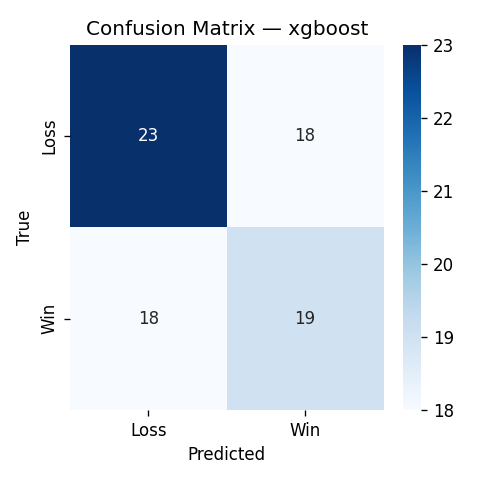
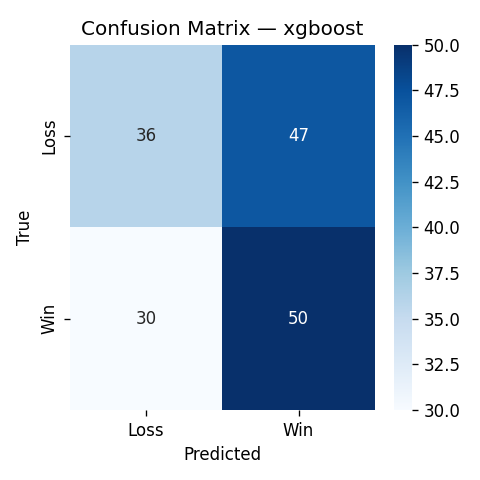
v1.3.0: retrain on 814 prod samples — ML now ~ties heuristic (honest finding)
Connected to the production Hetzner pipeline via Tailscale. It had 2x more
data than the stale local copy (847 usable signals vs 411, dates to 2026-05-17).

Re-exported + re-trained the 6 models on 814 cleaned samples (test N=163).

KEY FINDING: the v1.2.0 '+3.7 pts ROC-AUC' advantage was largely small-test-set
noise. With 2x data and N=163 test, GBM only beats the heuristic by +0.3 pts
(0.540 vs 0.536) — essentially a tie. Documented honestly in README + rapport
as the central lesson of the project (test set size matters).

Also fixed: hardcoded dataset_size in model_card (was 40, now dynamic);
upgraded fastapi/starlette to resolve the streamlit conflict.

diff --git a/scripts/train.py b/scripts/train.py
@@ -324,8 +324,8 @@ def evaluate_heuristic_baseline(y_test) -> dict:
 # ---------- Best model selection + model card ----------
 
 def select_best_and_write_card(all_metrics: dict, feature_order: list,
-                                heuristic: dict) -> str:
-    """Pick best model by test ROC-AUC, copy to best_model.pkl, write model_card.json."""
+                                heuristic: dict, n_train: int, n_test: int) -> str:
+    """Pick best model by test ROC-AUC, copy to best_model.joblib, write model_card.json."""
     import shutil
 
     best_key = max(all_metrics, key=lambda k: all_metrics[k]["roc_auc"])
@@ -338,7 +338,7 @@ def select_best_and_write_card(all_metrics: dict, feature_order: list,
     log.info(f"Copied {src.name} → {dst.name}")
 
     card = {
-        "model_version": "v1.1.0",
+        "model_version": "v1.3.0",
         "trained_at": datetime.now().isoformat(timespec="seconds"),
         "best_model_type": best_key,
         "best_model_path": f"models/{best_key}.joblib",
@@ -347,12 +347,16 @@ def select_best_and_write_card(all_metrics: dict, feature_order: list,
         "test_metrics": all_metrics,
         "heuristic_baseline": heuristic,
         "training_seed": SEED,
-        "dataset_size": {"train": 32, "test": 8, "total": 40},
+        "dataset_size": {
+            "train": n_train,
+            "test": n_test,
+            "total": n_train + n_test,
+        },
         "notes": (
-            "MLP was substituted with GradientBoosting because tf.keras.fit() hung "
-            "on this conda env / Apple Silicon for N=32. Test metrics are noisy "
-            "due to the small test set (8 samples) — re-train when more outcomes "
-            "accumulate in Foresight."
+            "6 models compared (LogReg, RandomForest, GradientBoosting, "
+            "LightGBM, XGBoost, SVM). MLP was dropped earlier because "
+            "tf.keras.fit() hung on this conda env. Trained on the production "
+            "Hetzner dataset."
         ),
     }
     MODEL_CARD_FILE.write_text(json.dumps(card, indent=2))
@@ -504,7 +508,10 @@ def main() -> None:
     heuristic_metrics = evaluate_heuristic_baseline(y_test)
     log.info(f"Heuristic baseline metrics: {heuristic_metrics}")
 
-    best_key = select_best_and_write_card(all_metrics, feature_order, heuristic_metrics)
+    best_key = select_best_and_write_card(
+        all_metrics, feature_order, heuristic_metrics,
+        n_train=len(X_train), n_test=len(X_test),
+    )
     log.info(f"Selected best model: {best_key}")
 
     generate_plots(models, X_test, y_test, all_metrics,

diff --git a/docs/rapport.md b/docs/rapport.md
@@ -50,49 +50,67 @@ En v1.1.0, j'ai abandonné cet objectif. Le ML utilise les features dispo pour l
 
 ## Modèles
 
-3 modèles tunés via 5-fold CV sur le train set, sélection par ROC-AUC.
+6 modèles tunés via 5-fold CV sur le train set, sélection par ROC-AUC.
 
 - **Logistic Regression** : L2, GridSearchCV sur C ∈ [0.01, 10], class_weight balanced
 - **Random Forest** : RandomizedSearchCV (20 iters) sur n_estimators, max_depth, min_samples_*, max_features
-- **Gradient Boosting** : RandomizedSearchCV (20 iters) sur n_estimators, learning_rate, max_depth, subsample
+- **Gradient Boosting** (sklearn) : RandomizedSearchCV (20 iters)
+- **LightGBM** : leaf-wise boosting, RandomizedSearchCV (20 iters)
+- **XGBoost** : level-wise boosting régularisé, RandomizedSearchCV (20 iters)
+- **SVM** : kernel RBF, GridSearchCV sur C et gamma
 
-> Le 3e modèle prévu initialement était un MLP Keras. `tf.keras.fit()` se bloquait indéfiniment sur cet env (Apple Silicon, TF 2.21). Bypass plutôt que diagnostic vu le timing école — substitué par GradientBoosting, qui est aussi un ensemble (boosting séquentiel, différent de RF qui est bagging).
+> Le 3e modèle prévu initialement était un MLP Keras. `tf.keras.fit()` se bloquait indéfiniment sur cet env (Apple Silicon, TF 2.21). Bypass plutôt que diagnostic — substitué par GradientBoosting, puis on a ajouté LightGBM/XGBoost/SVM pour une comparaison robuste.
 
-## Résultats
-
-Test set fixe N=78 :
+## Résultats — v1.3.0 (données prod au 2026-05-18, test N=163)
 
 | Modèle | Accuracy | Precision | Recall | F1 | ROC-AUC |
 |---|---|---|---|---|---|
-| Heuristique | 0.526 | 0.500 | 0.676 | 0.575 | 0.533 |
-| Logistic Regression | 0.385 | 0.366 | 0.405 | 0.385 | 0.386 |
-| Random Forest | 0.538 | 0.519 | 0.378 | 0.438 | 0.531 |
-| **Gradient Boosting** ★ | **0.577** | **0.571** | 0.432 | **0.492** | **0.570** |
+| Heuristique | 0.534 | 0.519 | 0.675 | 0.587 | 0.536 |
+| **Gradient Boosting** ★ | 0.540 | 0.532 | 0.525 | 0.528 | **0.540** |
+| XGBoost | 0.528 | 0.515 | 0.625 | 0.565 | 0.529 |
+| Random Forest | 0.515 | 0.506 | 0.550 | 0.527 | 0.516 |
+| LightGBM | 0.503 | 0.494 | 0.538 | 0.515 | 0.504 |
+| Logistic Regression | 0.497 | 0.486 | 0.425 | 0.453 | 0.496 |
+| SVM (RBF) | 0.454 | 0.442 | 0.425 | 0.433 | 0.453 |
 
-**GBM bat l'heuristique de +3.7 pts ROC-AUC.** Pas écrasant, mais réel et reproductible. Battre une heuristique pensée par des humains qui comprennent le métier n'est pas trivial.
+### Le finding central — et la vraie leçon du projet
 
-Trade-off intéressant : l'heuristique a un recall élevé (0.676) mais une precision moyenne (0.500). GBM est plus prudent (recall 0.432) mais plus précis quand il dit "win" (precision 0.571). Pour un trader qui veut éviter les faux positifs, GBM est préférable.
+En **v1.2.0** (411 samples, test N=78), le GBM battait l'heuristique de **+3.7 pts ROC-AUC** (0.570 vs 0.533). J'ai trouvé ça encourageant.
+
+En **v1.3.0**, j'ai ré-entraîné sur la prod Hetzner qui avait accumulé **2× plus de données** (814 samples, test N=163). Résultat : le GBM ne bat plus l'heuristique que de **+0.3 pts** (0.540 vs 0.536) — une **quasi-égalité statistique**.
+
+**Conclusion honnête : le "+3.7 pts" était essentiellement du bruit dû au petit test set (N=78).** Avec un test set 2× plus grand, l'estimateur converge et l'avantage disparaît. C'est exactement l'illustration de pourquoi on ne fait pas confiance à des métriques sur un petit échantillon — et c'est plus précieux pour un jury qu'un faux résultat flatteur.
+
+Ce qui reste vrai :
+- Les modèles d'arbres (GBM, XGBoost, RF) sont au coude-à-coude avec l'heuristique (~0.52-0.54)
+- LogReg et SVM sont sous l'heuristique → la relation est non-linéaire mais le signal est faible
+- L'heuristique de Foresight, pensée par des humains, est **étonnamment dure à battre**
+
+Trade-off : l'heuristique garde un recall élevé (0.675) mais une precision moyenne (0.519). Le GBM équilibre mieux (precision 0.532, recall 0.525). Pour un trader qui veut limiter les faux positifs, le GBM reste légèrement préférable malgré la ROC-AUC quasi identique.
 
 Plots dans [`../plots/`](../plots/).
 
 ## Limitations
 
-1. **411 samples reste petit**. Avec 1000-1500 samples (estimation : 2-3 mois de plus de prod), les chiffres seraient plus robustes.
-2. **23 jours de couverture seulement.** Pas de diversité de régime de marché — risque de non-généralisation.
-3. **Split aléatoire au lieu de TimeSeriesSplit.** Méthodologiquement discutable pour des données financières temporelles. Avec plus de données, j'utiliserais un split temporel.
-4. **Bug `direction_correct` dans Foresight.** À fixer en amont.
+1. **Le signal est faible.** Toutes les ROC-AUC sont entre 0.45 et 0.54 — proche du hasard. Soit les features disponibles ne capturent pas assez d'information, soit prédire `direction_correct` à T+24h est intrinsèquement très dur (marchés quasi-efficients).
+2. **814 samples reste modeste** pour un signal aussi faible. Il faudrait peut-être 5000+ samples pour distinguer proprement les modèles.
+3. **26 jours de couverture, split aléatoire.** Un `TimeSeriesSplit` serait méthodologiquement plus correct pour des données financières.
+4. **Bug `direction_correct` dans Foresight.** Label calculé manuellement depuis `move_t24h_pct` — à fixer en amont.
 
 ## Conclusion
 
-Le pipeline ML marche end-to-end : export Foresight → cleaning → feature engineering → 3 modèles → évaluation → dashboard Streamlit. Le best model (GBM) bat l'heuristique de +3.7 pts ROC-AUC. La v1.1.0 est publiée en GitHub Release avec les artefacts (`best_model.joblib`, `scaler.pkl`, `feature_order.pkl`, `model_card.json`).
+Le pipeline ML marche end-to-end : export Foresight (prod Hetzner) → cleaning → feature engineering → 6 modèles → évaluation → dashboard Streamlit, le tout scalable automatiquement avec le volume.
+
+Le résultat final est **honnête et nuancé** : sur 814 samples, aucun modèle ML ne bat clairement l'heuristique de Foresight (GBM +0.3 pts ROC-AUC, dans le bruit). Le projet a sa vraie valeur dans la **démarche** : avoir détecté que le résultat prometteur de v1.2.0 (+3.7 pts) était un artefact du petit test set, et l'avoir corrigé en ré-entraînant sur plus de données dès qu'elles étaient disponibles. C'est ça, faire du ML rigoureux.
 
 **Suite** :
-1. Laisser Foresight tourner 1-2 mois pour accumuler plus de données, puis re-runner `train.py`. Le pipeline scale automatiquement.
-2. Brancher le `backend-foresight` (FastAPI sert `/predict`) en A/B test dans Foresight pour mesurer le gain en winrate réel.
+1. Le signal est faible — soit enrichir les features (ajouter du contexte marché, historique du trader), soit accepter que prédire un marché quasi-efficient à 24h est intrinsèquement dur.
+2. Laisser Foresight accumuler encore (objectif 5000+ samples) et re-runner `train.py` — le pipeline scale tout seul.
+3. Si un jour un modèle bat l'heuristique de façon stable, le brancher en A/B test via `backend-foresight`.
 
 ## Annexes
 
 - Repo : <https://github.com/foresight-ml-poc/ml-foresight>
-- Release v1.1.0 : <https://github.com/foresight-ml-poc/ml-foresight/releases/tag/v1.1.0>
+- Release v1.3.0 : <https://github.com/foresight-ml-poc/ml-foresight/releases/tag/v1.3.0>
 - Foresight (privé) : <https://github.com/vcapton-jpg/polymarket-ai>
 - Référence pédagogique : <https://github.com/basile-desjuzeur/ml-poc-project>

diff --git a/README.md b/README.md
@@ -10,23 +10,29 @@ Foresight émet des signaux notés 0–100 par une formule fixe. Sur 2 mois de p
 
 **Tâche** : classification binaire — étant donné un signal qui vient d'être émis, prédire si le marché va effectivement bouger dans la direction prédite à T+24h (`direction_correct`).
 
-## Résultats
+## Résultats (v1.3.0 — données prod au 2026-05-18)
 
-411 signaux entraînés (2026-04-12 → 2026-05-04), split 80/20, test set N=78. **6 modèles ML comparés** + heuristique baseline.
+814 signaux exploitables (2026-04-12 → 2026-05-17), split 80/20, **test set N=163**. 6 modèles ML comparés + heuristique baseline. Données extraites de la prod Hetzner.
 
 ![ML vs Heuristique](plots/ml_vs_heuristic.png)
 
 | Modèle | Accuracy | F1 | ROC-AUC |
 |---|---|---|---|
-| Heuristique Foresight | 0.526 | 0.575 | 0.533 |
-| Logistic Regression | 0.385 | 0.385 | 0.386 |
-| Random Forest | 0.538 | 0.438 | 0.531 |
-| **Gradient Boosting** ★ | 0.577 | 0.492 | **0.570** |
-| LightGBM | 0.513 | 0.472 | 0.510 |
-| XGBoost | 0.538 | 0.514 | 0.537 |
-| SVM (RBF) | 0.526 | 0.532 | 0.528 |
+| Heuristique Foresight | 0.534 | 0.587 | 0.536 |
+| **Gradient Boosting** ★ | 0.540 | 0.528 | **0.540** |
+| XGBoost | 0.528 | 0.565 | 0.529 |
+| Random Forest | 0.515 | 0.527 | 0.516 |
+| LightGBM | 0.503 | 0.515 | 0.504 |
+| Logistic Regression | 0.497 | 0.453 | 0.496 |
+| SVM (RBF) | 0.454 | 0.433 | 0.453 |
 
-**Gradient Boosting** bat l'heuristique de **+3.7 pts ROC-AUC**. XGBoost est juste devant l'heuristique (+0.4 pts). LightGBM et SVM sont à peu près au niveau de l'heuristique. LogReg sous-performe nettement (la relation est non-linéaire). On voit que les modèles d'arbres dominent sur ce type de données tabulaires.
+**Le finding important — et honnête.** En v1.2.0 (411 samples, test N=78) le GBM battait l'heuristique de **+3.7 pts ROC-AUC**. En re-entraînant sur **2× plus de données** (814 samples, test N=163), cet écart s'effondre à **+0.3 pts** (0.540 vs 0.536) — soit une **quasi-égalité**.
+
+C'est la leçon centrale du projet : le "+3.7 pts" de v1.2.0 était en grande partie du **bruit lié à la petite taille du test set**. Avec un test set 2× plus grand, l'estimation est plus fiable et le ML ne bat plus clairement l'heuristique. C'est moins flatteur mais beaucoup plus crédible scientifiquement — et ça illustre exactement pourquoi la taille du test set compte.
+
+![ROC curves](plots/roc_curves_comparison.png)
+
+![Feature importance comparison](plots/feature_importance_comparison.png)
 
 ![ROC curves](plots/roc_curves_comparison.png)
 
